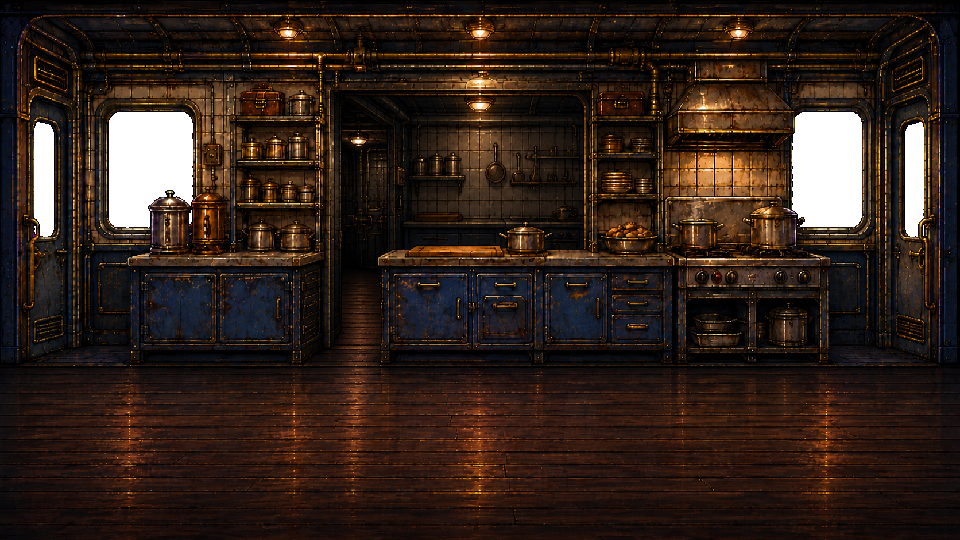
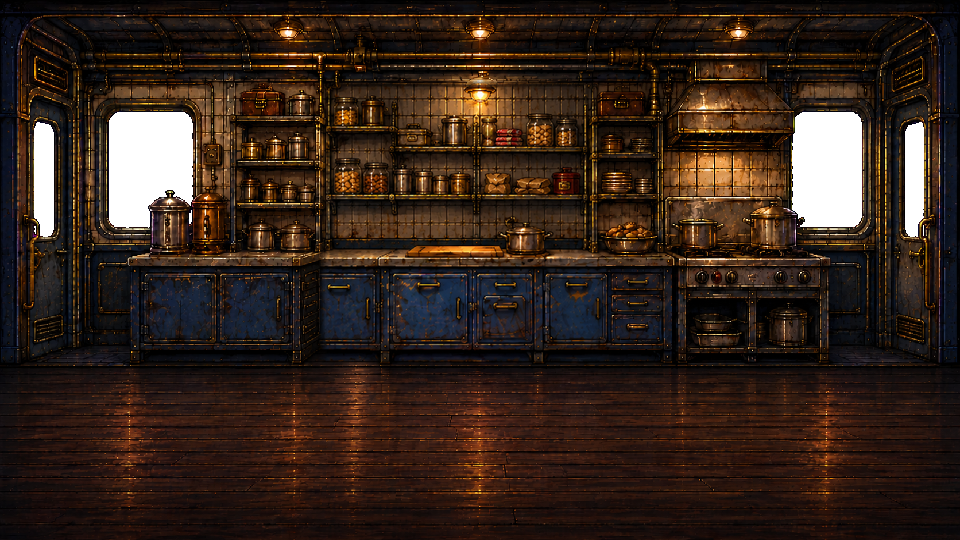
Replace impossible pantry recess with shallow snack counter

Changed region(s): [[0.3125, 0.1481, 0.625, 0.6815], [0.5938, 0.6222, 0.625, 0.6519]]

diff --git a/js/train.js b/js/train.js
@@ -184,13 +184,6 @@ export function drawTrainWallPlane(ctx,camX){
   if(row===0){if(!reacting||!sprite(ctx,'passenger_reaction',pose,x-camX,y,92,92,224,224))sprite(ctx,'passenger_seated',restPose,x-camX,y,92,92,224,224);}
   else sprite(ctx,'passengers',row*4+(reacting?(reaction<18?1:reaction<112?2:3):pose),x-camX,y,78,91,224,256);ctx.restore();
  }
- // The cook stands inside the recessed galley; the front serving ledge occludes his lower torso.
- if(camX<5590&&camX+W>5450){
-  const cycle=tr.t%540,nearFight=G.enemies.some(e=>!e.dead&&Math.abs(e.x-5510)<190);
-  const pose=nearFight?7:cycle<240?[0,1,2,3,2,1][Math.floor(cycle/12)%6]:cycle<420?4+Math.floor(cycle/18)%2:6;
-  sprite(ctx,'pantry_cook',pose,5510-camX,129,56,56,192,192);
-  const counter=ASSETS.nr_pantry;if(counter)ctx.drawImage(counter,300,254,320,106,5430-camX,127,160,53);
- }
  if(camX<550){
   const t=G.state==='intro'?G.rawTime-G.stateT:tr.t,cycle=t%720;
   const pose=cycle<260?0:cycle<420?1:cycle<510?2:3;

diff --git a/js/assets.js b/js/assets.js
@@ -43,7 +43,6 @@ export const FILES = {
   boxing_impacts: 'assets/fx/boxing_impacts.png',
   nr_passenger_reaction: 'assets/stages/night_train/rebuild/passenger_reaction.png',
   nr_passenger_seated: 'assets/stages/night_train/rebuild/passenger_seated.png',
-  nr_pantry_cook: 'assets/stages/night_train/rebuild/pantry_cook.png',
   nr_station_tea: 'assets/stages/night_train/rebuild/station_tea.png',
 
   nr_platform_front: 'assets/stages/night_train/rebuild/platform_front.png',

diff --git a/tools/production/build_train_snack_counter.py b/tools/production/build_train_snack_counter.py
@@ -1,0 +1,16 @@
+"""Register the generated shallow pantry wall, preserving windows, floor and joins."""
+from pathlib import Path
+from PIL import Image
+import numpy as np
+ROOT = Path(__file__).resolve().parents[2]
+SOURCE = ROOT / 'assets/sources/production/stages/night_train/rebuild/snack_counter'
+def main():
+    base = Image.open(SOURCE / 'registered_base.png').convert('RGBA')
+    selected = Image.open(SOURCE / 'selected.png').convert('RGBA').resize(base.size, Image.Resampling.LANCZOS)
+    # Replace only the impossible recess. Adjacent cabinets hide the side joins;
+    # preserve the existing transparent windows and every walkable floor pixel.
+    y, x = np.indices((base.height, base.width))
+    mask = np.minimum.reduce([(x-318)/9, (605-x)/9, (y-78)/9, (367-y)/9]).clip(0, 1)
+    Image.composite(selected, base, Image.fromarray((mask*255).astype('uint8'))).save(ROOT / 'assets/stages/night_train/rebuild/pantry.png')
+if __name__ == '__main__':
+    main()

diff --git a/tools/production/build_train_service.py b/tools/production/build_train_service.py
@@ -1,4 +1,4 @@
-"""Register the pantry performance and inspector's office actions."""
+"""Register the inspector's office actions."""
 import json
 import numpy as np
 from PIL import Image
@@ -14,10 +14,6 @@ def grounded(c,scale,width=320,height=240,feet=233):
     return clean_edge(f)
 
 def main():
-    cells=extract(Image.open(SOURCE/'pantry_cook.png'),2)
-    assert len(cells)==8
-    scale=154/cells[0].height
-    atlas([grounded(cells[i],scale,192,192,186) for i in range(8)],OUT/'pantry_cook.png')
     cells=extract(Image.open(SOURCE/'conductor_performance.png'),4)
     extra=extract(Image.open(SOURCE/'conductor_office.png'),2)
     assert len(cells)==16 and len(extra)==8

diff --git a/tools/production/build_train_coaches.py b/tools/production/build_train_coaches.py
@@ -36,6 +36,8 @@ def main():
         im=Image.open(SOURCE/(name+'.png'))
         im=im.crop((0,round(im.height*.063) if name=='office' else 0,im.width,round(im.height*(.974 if name=='office' else .965))))
         clean_edge(keyed(im)).resize((960,540),Image.Resampling.NEAREST).save(OUT/(name+'.png'))
+    from build_train_snack_counter import main as build_snack_counter
+    build_snack_counter()
     for directory in (ROOT/'assets/frames').glob('nr_*'):
         if directory.is_dir():
             for path in directory.glob('*.png'):clean_edge(Image.open(path)).save(path)

diff --git a/docs/night-train.md b/docs/night-train.md
@@ -13,7 +13,7 @@ A 12–15 minute journey from a remote station at midnight through increasingly 
 | Platform and boarding | 1920–2880 | Clear the final station fight; the blue sleeper visibly rolls in over four seconds. A fresh F / LB near its door triggers a two-second rail-assisted step and climb in the same platform view. |
 | General compartment | 2880–3840 | Battered benches, luggage and animated passengers; moonlit villages outside. |
 | Sleeper coaches | 3840–5280 | Stacked berths, curtains, ambushers; brickworks and rail yards emerge outside. |
-| Pantry | 5280–5760 | Detailed cook chopping, preparing food and reacting inside a recessed galley, behind a serving hatch with visible side walls and an access door; warm kitchen fixtures and a short recovery stretch. |
+| Pantry | 5280–5760 | Shallow, unattended snack counter against a continuous carriage wall: greasy parcels, dusty jars and tea equipment. No side room, serving-hole cook or rear doorway; retain the clear aisle and short recovery stretch. |
 | Inspector office | 5760–6240 | Grimy paperwork, cash drawers and confiscated luggage. Two enforcers first, then the inspector rises and steps around his desk to fight. |
 | AC sleeper | 6240–7200 | Cool lighting, sealed windows, professional guards; polluted blue-hour outskirts. |
 | Private carriage | 7200–8160 | Wood, brass, velvet, contraband and bodyguards; interior boss phase. |
